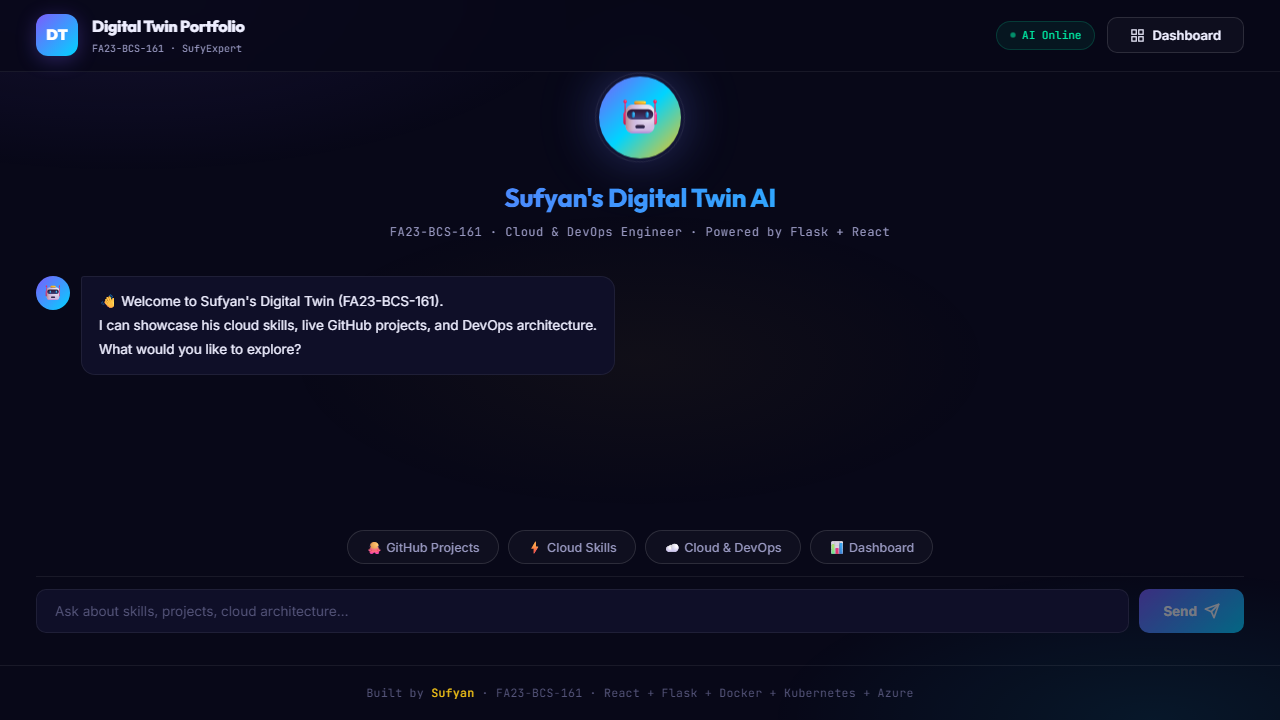
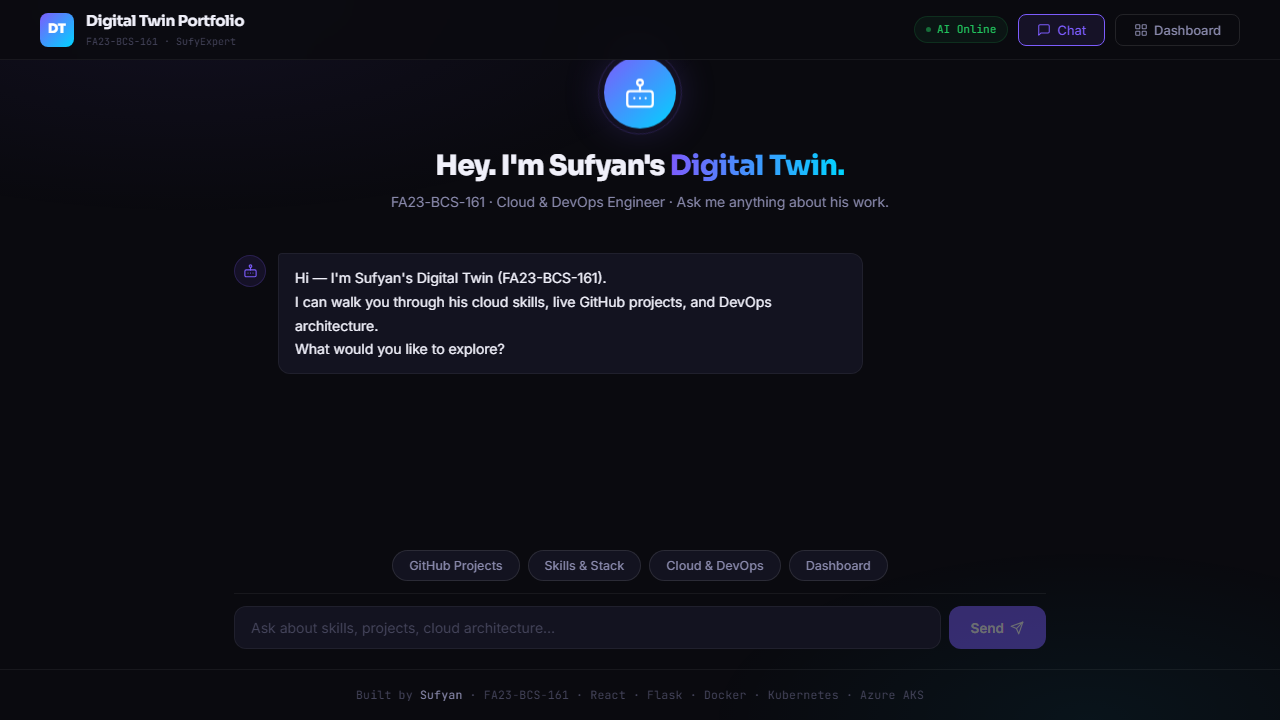
docs: update UI screenshots with the latest frontend design and domain

diff --git a/take_screenshots.py b/take_screenshots.py
@@ -10,13 +10,13 @@ async def main():
         
         # UI Screenshot
         print("Taking UI screenshot...")
-        await page.goto('http://20.255.118.236')
+        await page.goto('https://sufyexpert.dev')
         await page.wait_for_selector('.chat-view')
         await page.screenshot(path=r'C:\University\Semester\Dev Ops\lab_project\FA23-BCS-161-Screenshots\7_Final_Output\1_React_UI_Working.png')
         
         # Dashboard Screenshot
         print("Taking Dashboard screenshot...")
-        await page.click('button.nav-toggle') # Toggle dashboard
+        await page.click('#nav-dash-btn') # Toggle dashboard
         await page.wait_for_selector('.repo-card') # Wait for repos to load
         # Scroll down slightly to show repos clearly
         await page.evaluate("window.scrollBy(0, 300)")
